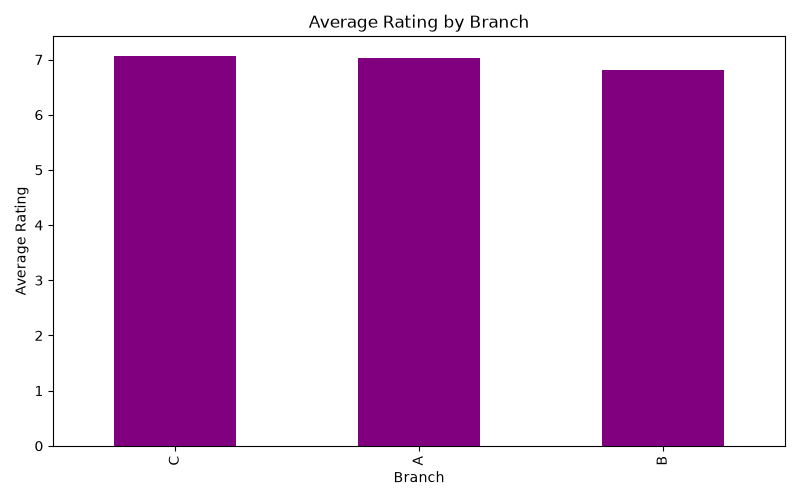
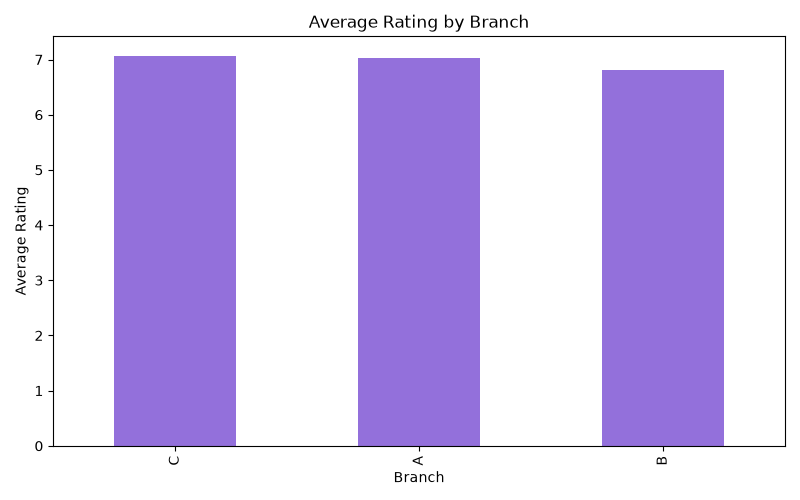
Project Documentation

diff --git a/src/visualization.py b/src/visualization.py
@@ -6,7 +6,7 @@ def plot_revenue_by_branch(branch_revenue):
 
     plt.figure(figsize=(8, 5))
 
-    branch_revenue.plot(kind="bar", color="teal")
+    branch_revenue.plot(kind="bar", color="gray")
 
     plt.title("Revenue by Branch")
     plt.xlabel("Branch")
@@ -21,7 +21,7 @@ def plot_revenue_by_product_line(product_line_revenue):
 
     plt.figure(figsize=(10, 6))
 
-    product_line_revenue.plot(kind="barh", color=["seagreen", "teal"])
+    product_line_revenue.plot(kind="barh", color="gray")
 
     plt.title("Revenue by Product Line")
     plt.xlabel("Revenue")
@@ -38,7 +38,7 @@ def plot_revenue_by_customer_type(customer_type_revenue):
 
     customer_type_revenue.plot(
         kind="bar",
-        color="olive"
+        color=["skyblue", "gray"]
     )
 
     plt.title("Revenue by Customer Type")
@@ -74,7 +74,7 @@ def plot_revenue_by_payment_method(payment_revenue):
 
     payment_revenue.plot(
         kind="bar",
-        color=["brown", "black", "maroon"]
+        color=["gray", "black", "pink"]
     )
 
     plt.title("Revenue by Payment Method")
@@ -92,7 +92,7 @@ def plot_revenue_by_month(month_revenue):
 
     month_revenue.plot(
         kind="bar",
-        color="green"
+        color=["gray", "pink", "black"]
     )
 
     plt.title("Revenue by Month")
@@ -110,7 +110,7 @@ def plot_revenue_by_day(revenue_by_day):
 
     revenue_by_day.plot(
         kind="bar",
-        color="red"
+        color="gray"
     )
 
     plt.title("Revenue by Day of Week")
@@ -146,7 +146,7 @@ def plot_rating_by_branch(branch_rating):
 
     branch_rating.plot(
         kind="bar",
-        color="purple"
+        color="mediumpurple"
     )
 
     plt.title("Average Rating by Branch")
@@ -164,7 +164,7 @@ def plot_rating_by_product(product_rating):
 
     product_rating.plot(
         kind="barh",
-        color="teal"
+        color="gray"
     )
 
     plt.title("Average Rating by Product Line")

diff --git a/README.md b/README.md
@@ -1,0 +1,207 @@
+# Supermarket Sales Analyzer
+
+A Python-based data analysis project that explores supermarket sales data using **Pandas** and **Matplotlib**.
+
+The project loads, preprocesses, analyzes, and visualizes supermarket sales data to identify patterns in revenue, customer behavior, payment methods, sales timing, and product performance.
+
+## Features
+
+* Data loading and preprocessing
+* Revenue analysis
+* Revenue comparison by branch
+* Revenue analysis by product line
+* Customer type analysis
+* Gender-based revenue analysis
+* Payment method analysis
+* Monthly revenue analysis
+* Day-of-week revenue analysis
+* Hourly revenue analysis
+* Average rating analysis by branch
+* Average rating analysis by product line
+* Data visualizations using Matplotlib
+* Basic automated testing using Python `assert` statements
+
+## Dataset
+
+The project uses a supermarket sales dataset containing transaction-level information such as:
+
+* Invoice details
+* Branch
+* Customer type
+* Gender
+* Product line
+* Unit price
+* Quantity
+* Tax
+* Total sales
+* Date and time
+* Payment method
+* Customer rating
+
+The dataset is used to analyze sales performance and identify patterns across different business dimensions.
+
+## Technologies Used
+
+* **Python**
+* **Pandas** — data loading, preprocessing, grouping, and analysis
+* **Matplotlib** — data visualization
+* **Git & GitHub** — version control and project management
+
+## Project Structure
+
+```text
+Supermarket-sales-analyzer/
+│
+├── data/
+│   └── supermarket_sales.csv
+│
+├── images/
+│   ├── revenue_by_branch.png
+│   ├── revenue_by_product_line.png
+│   ├── revenue_by_customer_type.png
+│   ├── revenue_by_gender.png
+│   ├── revenue_by_payment_method.png
+│   ├── revenue_by_month.png
+│   ├── revenue_by_day.png
+│   ├── revenue_by_hour.png
+│   ├── rating_by_branch.png
+│   └── rating_by_product.png
+│
+├── notebooks/
+│   └── ...
+│
+├── reports/
+│   └── ...
+│
+├── src/
+│   ├── data_loader.py
+│   ├── preprocess.py
+│   ├── analysis.py
+│   └── visualization.py
+│
+├── visualize.py
+├── test_analysis.py
+├── requirements.txt
+└── README.md
+```
+
+### File and Folder Description
+
+| File / Folder          | Purpose                                                      |
+| ---------------------- | ------------------------------------------------------------ |
+| `data/`                | Contains the supermarket sales dataset                       |
+| `images/`              | Stores the generated visualization images                    |
+| `notebooks/`           | Contains notebooks used during data exploration and analysis |
+| `reports/`             | Contains project reports and related documentation           |
+| `src/data_loader.py`   | Loads the dataset                                            |
+| `src/preprocess.py`    | Preprocesses and prepares the data                           |
+| `src/analysis.py`      | Contains reusable functions for sales and rating analysis    |
+| `src/visualization.py` | Contains reusable functions for creating visualizations      |
+| `visualize.py`         | Runs the visualization functions                             |
+| `test_analysis.py`     | Tests the analysis pipeline and verifies expected outputs    |
+| `requirements.txt`     | Lists the Python dependencies required by the project        |
+| `README.md`            | Contains project documentation                               |
+
+## Installation
+
+### 1. Clone the repository
+
+```bash
+git clone <your-github-repository-url>
+cd Supermarket-sales-analyzer
+```
+
+### 2. Install the required dependencies
+
+```bash
+pip install -r requirements.txt
+```
+
+### 3. Run the analysis
+
+```bash
+python test_analysis.py
+```
+
+This loads the dataset, preprocesses the data, calculates revenue and rating metrics, and runs the analysis functions.
+
+### 4. Generate visualizations
+
+```bash
+python visualize.py
+```
+
+The generated charts are saved in the `images/` directory.
+
+## Testing
+
+The project includes basic automated tests using Python `assert` statements.
+
+Run:
+
+```bash
+python test_analysis.py
+```
+
+If all checks pass, the program displays:
+
+```text
+All tests passed!
+```
+
+## Analysis
+
+The project performs the following analyses on the supermarket sales data:
+
+### Revenue Analysis
+
+* Total revenue
+* Average revenue
+* Revenue by branch
+* Revenue by product line
+* Revenue by customer type
+* Revenue by gender
+* Revenue by payment method
+* Revenue by month
+* Revenue by day of week
+* Revenue by hour
+
+### Rating Analysis
+
+* Average customer rating by branch
+* Average customer rating by product line
+
+## Visualizations
+
+The analysis results are visualized using **Matplotlib**.
+
+The project generates bar charts for:
+
+* Revenue by branch
+* Revenue by product line
+* Revenue by customer type
+* Revenue by gender
+* Revenue by payment method
+* Revenue by month
+* Revenue by day of week
+* Revenue by hour
+* Average rating by branch
+* Average rating by product line
+
+All generated visualizations are stored in the `images/` directory.
+
+## Key Insights
+
+The analysis of the supermarket sales data produced the following insights:
+
+* **Total revenue:** The supermarket generated a total revenue of **322,966.75**, with an average revenue of **322.97 per transaction**.
+* **Branch performance:** Branch **C** generated the highest revenue at **110,568.71**, followed closely by Branch A and Branch B.
+* **Product line performance:** **Food and beverages** generated the highest revenue at **56,144.84**, while **Health and beauty** generated the lowest at **49,193.74**.
+* **Customer type:** **Members** generated more revenue (**164,223.44**) than Normal customers (**158,743.31**).
+* **Gender:** Female customers generated slightly more revenue (**167,882.93**) than male customers (**155,083.82**).
+* **Payment methods:** **Cash** generated the highest revenue (**112,206.57**), followed by E-wallet and Credit card.
+* **Monthly performance:** **January** recorded the highest revenue (**116,291.87**), while February recorded the lowest (**97,219.37**).
+* **Day of week:** **Saturday** generated the highest revenue (**56,120.81**), while Monday generated the lowest (**37,899.08**).
+* **Hourly performance:** **7 PM (19:00)** had the highest revenue (**39,699.51**), while **8 PM (20:00)** had the lowest (**22,969.53**).
+* **Branch ratings:** Branch **C** had the highest average customer rating (**7.07**), while Branch B had the lowest (**6.82**).
+* **Product line ratings:** **Food and beverages** had the highest average rating (**7.11**), while **Home and lifestyle** had the lowest (**6.84**).
